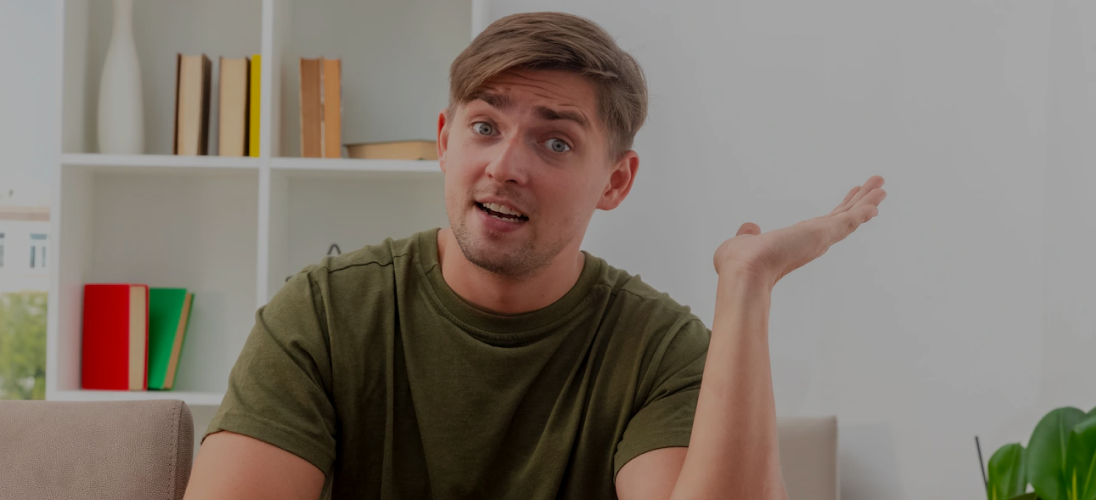
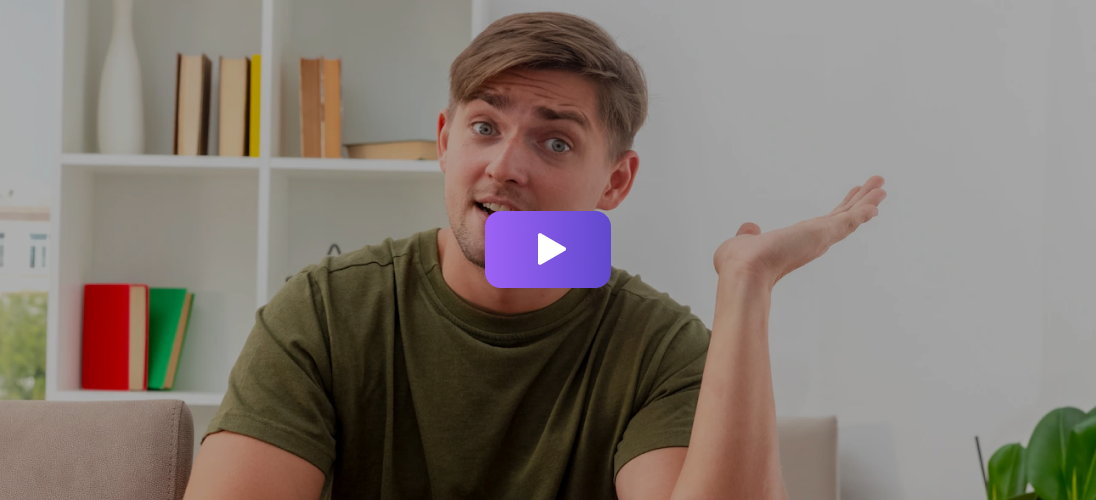
cunter animation add

Changed region(s): [[0.4343, 0.42, 0.5584, 0.6]]

diff --git a/src/pages/careers.html b/src/pages/careers.html
@@ -12,7 +12,7 @@
 
     <div class="row g-4 mt-8">
       <div class="md:col-6 lg:col-4">
-        <div class="rounded px-6 py-8 text-center shadow">
+        <div class="rounded px-6 py-8 text-center shadow h-full">
           <div
             class="mx-auto mb-7 flex text-5xl text-primary h-20 w-20 items-center justify-center rounded bg-white drop-shadow">
             <i class="fa-solid fa-coins "></i>
@@ -26,7 +26,7 @@
         </div>
       </div>
       <div class="md:col-6 lg:col-4">
-        <div class="rounded px-6 py-8 text-center shadow">
+        <div class="rounded px-6 py-8 text-center shadow h-full">
           <div
             class="mx-auto mb-7 text-5xl text-primary flex h-20 w-20 items-center justify-center rounded bg-white drop-shadow">
             <i class="fa-solid fa-person-running"></i>
@@ -40,7 +40,7 @@
         </div>
       </div>
       <div class="md:col-6 lg:col-4">
-        <div class="rounded px-6 py-8 text-center shadow">
+        <div class="rounded px-6 py-8 text-center shadow h-full">
           <div
             class="mx-auto mb-7 text-5xl text-primary flex h-20 w-20 items-center justify-center rounded bg-white drop-shadow">
             <i class="fa-solid fa-user-pen"></i>
@@ -54,7 +54,7 @@
         </div>
       </div>
       <div class="md:col-6 lg:col-4">
-        <div class="rounded px-6 py-8 text-center shadow">
+        <div class="rounded px-6 py-8 text-center shadow h-full">
           <div
             class="mx-auto mb-7 text-5xl text-primary flex h-20 w-20 items-center justify-center rounded bg-white drop-shadow">
             <i class="fa-solid fa-award"></i>
@@ -68,7 +68,7 @@
         </div>
       </div>
       <div class="md:col-6 lg:col-4">
-        <div class="rounded px-6 py-8 text-center shadow">
+        <div class="rounded px-6 py-8 text-center shadow h-full">
           <div
             class="mx-auto mb-7 text-5xl text-primary flex h-20 w-20 items-center justify-center rounded bg-white drop-shadow">
             <i class="fa-solid fa-briefcase-medical"></i>
@@ -82,7 +82,7 @@
         </div>
       </div>
       <div class="md:col-6 lg:col-4">
-        <div class="rounded px-6 py-8 text-center shadow">
+        <div class="rounded px-6 py-8 text-center shadow h-full">
           <div
             class="mx-auto mb-7 text-5xl text-primary flex h-20 w-20 items-center justify-center rounded bg-white drop-shadow">
             <i class="fa-solid fa-building"></i>
@@ -142,7 +142,7 @@
           <div
             class="relative mr-3 pr-3 lg:mr-8 sm:pr-8 after:hidden sm:after:block after:absolute after:right-0 after:top-0 after:h-full after:w-0.5 after:bg-primary">
             <select data-department
-              class="py-4 px-9 sm:pr-20 sm:bg-[80%_center] sm:py-[26px] rounded sm:pl-[56px] text-lg border-none lg:text-xl shadow focus:border-none focus:ring-0">
+              class="py-4 px-9 sm:pr-20 sm:bg-[80%_center] sm:py-[26px] rounded sm:pl-[3.6rem] text-lg border-none lg:text-xl shadow focus:border-none focus:ring-0">
               <option value="*">All Department</option>
               <option value="digital-marketing">Digital Marketing</option>
               <option value="data-engineer">Data Engineer</option>
@@ -150,17 +150,21 @@
               <option value="software-engineer">Software Engineer</option>
               <option value="fullstack-engineer">FullStack Engineer</option>
             </select>
+
+            
           </div>
 
-          <select data-office
-            class="py-4 px-9 sm:pr-20 sm:bg-[80%_center] sm:py-[26px] rounded sm:pl-[56px] text-lg border-none lg:text-xl shadow focus:border-none focus:ring-0">
-            <option value="*">All Office</option>
-            <option value="usa">USA</option>
-            <option value="uk">UK</option>
-            <option value="hungary">Hungary</option>
-            <option value="brazil">Brazil</option>
-            <option value="italy">Italy</option>
-          </select>
+          <div>
+            <select data-office
+              class="py-4 px-9 sm:pr-20 sm:bg-[75%_center] sm:py-[26px] rounded sm:pl-[3.6rem] text-lg border-none lg:text-xl shadow focus:border-none focus:ring-0">
+              <option value="*">All Office</option>
+              <option value="usa">USA</option>
+              <option value="uk">UK</option>
+              <option value="hungary">Hungary</option>
+              <option value="brazil">Brazil</option>
+              <option value="italy">Italy</option>
+            </select></div>
+
         </div>
       </div>
     </div>

diff --git a/src/pages/blog-single.html b/src/pages/blog-single.html
@@ -110,17 +110,17 @@
 <div class="section">
   <div class="container">
     <h2 class="h2 mb-[52px] text-center">Our Recent Blog</h2>
-    <div class="row">
+    <div class="row gy-4">
       <!-- blog posts -->
-      <div class="md:col-6 lg:col-4">
+      <div class="col-12 md:col-6 lg:col-4 h-full">
         <div class="relative">
           <img width="424" height="230" class="w-full rounded" src="images/blog/8.png" alt="blog-post" />
-          <a href="" class="absolute right-3 top-3 rounded bg-dark px-[22px] py-2 text-sm font-semibold text-white">Food
+          <a href="#" class="absolute right-3 top-3 rounded bg-dark px-[22px] py-2 text-sm font-semibold text-white">Food
             Blog</a>
         </div>
         <h3 class="mb-5 mt-11 text-h3-sm">
-          Software Developer should write a blogEvery Software Developer
-          should
+          <a href="#">Software Developer should write a blogEvery Software Developer
+            should</a>
         </h3>
         <p class="mb-6">
           Proven aptitude torate and build strong relationships withoProven
@@ -134,15 +134,15 @@
       </div>
 
       <!-- blog posts -->
-      <div class="md:col-6 lg:col-4">
+      <div class="col-12 md:col-6 lg:col-4 h-full">
         <div class="relative">
           <img width="424" height="230" class="w-full rounded" src="images/blog/9.png" alt="blog-post" />
-          <a href="" class="absolute right-3 top-3 rounded bg-dark px-[22px] py-2 text-sm font-semibold text-white">Food
+          <a href="#" class="absolute right-3 top-3 rounded bg-dark px-[22px] py-2 text-sm font-semibold text-white">Food
             Blog</a>
         </div>
         <h3 class="mb-2 mt-6 text-h3-sm">
-          Meet Agile executive Chief Revenue Officer, Merick den Turkoglu
-          morgan
+        <a href="#">Meet Agile executive Chief Revenue Officer, Merick den Turkoglu
+          morgan</a>
         </h3>
         <p class="mb-6">
           Proven aptitude torate and build strong relationships withoProven
@@ -156,14 +156,14 @@
       </div>
 
       <!-- blog posts -->
-      <div class="md:col-6 lg:col-4">
+      <div class="col-12 md:col-6 lg:col-4 h-full">
         <div class="relative">
           <img width="424" height="230" class="w-full rounded" src="images/blog/10.png" alt="blog-post" />
-          <a href="" class="absolute right-3 top-3 rounded bg-dark px-[22px] py-2 text-sm font-semibold text-white">Food
+          <a href="#" class="absolute right-3 top-3 rounded bg-dark px-[22px] py-2 text-sm font-semibold text-white">Food
             Blog</a>
         </div>
         <h3 class="mb-2 mt-6 text-h3-sm">
-          Content Structure: The Do's and Dont's of Content Creation more
+          <a href="#">Content Structure: The Do's and Dont's of Content Creation more</a>
         </h3>
         <p class="mb-6">
           Proven aptitude torate and build strong relationships withoProven

diff --git a/src/pages/about.html b/src/pages/about.html
@@ -45,22 +45,22 @@
           the importance of IT."</strong>
       </p>
       <div class="border border-primary/30 mt-12 rounded-xl p-5 lg:p-6">
-        <div class="row g-3 lg:g-4">
-          <div class="lg:col-4 text-center">
+        <div class="row g-3 lg:g-4 justify-center">
+          <div class="md:col-6 lg:col-4 text-center">
             <div class="shadow rounded-xl px-3 xl:px-6 py-9">
-              <h1 class="mb-2">11+</h1>
+              <h1 class="mb-2"><span data-counter data-target="11" data-speed="11">0</span>+</h1>
               <h5>Years of SaaS Expertise</h5>
             </div>
           </div>
-          <div class="lg:col-4 text-center">
+          <div class="md:col-6 lg:col-4 text-center">
             <div class="shadow rounded-xl px-3 xl:px-6 py-9">
-              <h1 class="mb-2">330+</h1>
+              <h1 class="mb-2"><span data-counter data-target="330" data-speed="20" >0</span>+</h1>
               <h5>Employees</h5>
             </div>
           </div>
-          <div class="lg:col-4 text-center">
+          <div class="md:col-6 lg:col-4 text-center">
             <div class="shadow rounded-xl px-3 xl:px-6 py-9">
-              <h1 class="mb-2">16</h1>
+              <h1 class="mb-2"><span data-counter data-target="16" data-speed="16">0</span></h1>
               <h5>Office Hubs</h5>
             </div>
           </div>
@@ -80,7 +80,7 @@
 
       <div class="row items-center mt-11">
         <div class="lg:col-6">
-          <img class="rounded-2xl" width="736" height="430" src="images/about/3.png" alt="about-img">
+          <img class="rounded-2xl w-full" width="736" height="430" src="images/about/3.png" alt="about-img">
         </div>
         <div class="lg:col-6">
           <h3 class="mb-3">Building the future of SaaS made Reoperations together.</h3>
@@ -95,10 +95,10 @@
       </div>
       <div class="row mt-[50px] flex-row-reverse items-center">
         <div class="lg:col-6">
-          <img class="rounded-2xl" width="736" height="430" src="images/about/4.png" alt="about-img">
+          <img class="rounded-2xl w-full" width="736" height="430" src="images/about/4.png" alt="about-img">
         </div>
         <div class="lg:col-6">
-          <h3 class="mb-3">Our mission is to accelerate the world’s transition to SaaS in a option better of experience
+          <h3 class="mb-3 mt-6 lg:mt-0">Our mission is to accelerate the world’s transition to SaaS in a option better of experience
             .</h3>
           <p class="mb-8">Lorem ipsum dolor sit amet consectetur maxime corporis nsectetur corporis consectetur maxime
             corporis cumque Lorem ipsum amet consectetur maxime corporis .</p>

diff --git a/src/pages/customers-story.html b/src/pages/customers-story.html
@@ -6,20 +6,28 @@
             <h2 class="mb-14">Hear see the video why our customers love us.</h2>
         </div>
         <div class="lg:col-10 mx-auto">
-            <img class="rounded-xl" width="1096" height="500" src="images/customer-story/1.png" alt="customer-img">
+            <div class="relative overflow-hidden rounded-lg mb-5">
+                <img data-thumnail class="cursor-pointer" width="1096" height="548" src="images/customer-story/1.png"
+                    alt="Webinars-img">
+                <div class="hidden absolute top-0 left-0 w-full h-full">
+                    <iframe class="w-full h-full" allowfullscreen
+                        src="https://www.youtube.com/embed/ResipmZmpDU?autoplay=1&mute=1">
+                    </iframe>
+                </div>
+            </div>
         </div>
     </div>
 </section>
 
-<section class="section">
+<section class="section pt-0">
     <div class="container">
-        <div class="lg:col-5 mx-auto text-center mt-16 lg:mb-20">
+        <div class="sm:col-10 lg:col-5 mx-auto text-center lg:mb-20">
             <h2>We’re all on the same events team</h2>
         </div>
 
-        <div class="row gy-4 justify-between">
+        <div class="row gy-4 justify-between mt-6 lg:mt-0">
             <div class="lg:col-6">
-                <img class="mb-3" src="images/customer-story/3.png" alt="compnay-logo" />
+                <img class="mb-3 w-full" src="images/customer-story/3.png" alt="compnay-logo" />
                 <h3 class="mb-4">agile solves SaaS spend Shadow IT, and operational challenges terms of
                     operational.
                 </h3>

diff --git a/src/scripts/main.js b/src/scripts/main.js
@@ -264,6 +264,7 @@
     });
   };
 
+  //
   const priceTags = document.querySelectorAll("[data-package]");
   priceTags?.forEach((priceTag) => {
     priceTag.addEventListener("click", function () {
@@ -281,4 +282,37 @@
       });
     });
   });
+
+  //  counter;
+  let observer = new IntersectionObserver(handleIntersection, {
+    root: null,
+    rootMargin: '0px',
+    threshold: 0.8
+  });
+
+  const counters = document.querySelectorAll("[data-counter]");
+  counters?.forEach((counter) => observer.observe(counter));
+
+  function startCounter(counter){
+    const speed = parseInt(counter.getAttribute("data-speed"));;
+    const target = parseInt(counter.getAttribute("data-target"));
+    const count = parseInt(counter.innerText);
+    const increment = Math.trunc(target / speed);
+    if (count < target) {
+      counter.innerHTML = (count + increment);
+      setTimeout(() => startCounter(counter), 80);
+    } else {
+      counter.innerText = target;
+    }
+  }
+
+  function handleIntersection(entries, observer) {
+    entries.forEach(function(entry) {
+      if (entry.intersectionRatio > 0) {
+        startCounter(entry.target);
+        observer.unobserve(entry.target);
+      }
+    });
+  }
+
 })();

diff --git a/src/pages/solution.html b/src/pages/solution.html
@@ -5,7 +5,7 @@
         <div class="lg:col-5 text-center mx-auto">
             <h2 class="mb-14">Take Control of SaaS Renewals & Vendor Management</h2>
         </div>
-        <div class="mx-auto lg:col-10">
+        <div class="mx-auto lg:col-10 px-2">
             <img class="mx-auto shadow rounded-xl" width="1102" height="722" src="/images/solution/8.png"
                 alt="solution-img" />
         </div>
@@ -69,10 +69,10 @@
     </div>
 </section>
 
-<section class="section">
+<section class="section pt-0">
     <div class="container">
         <div class="row items-center">
-            <div class="lg:col-5">
+            <div class="lg:col-5 mb-12">
                 <img class="shadow rounded-xl w-full" src="images/solution/11.png"  alt="solution-img"/>
             </div>
             <div class="lg:col-7">

diff --git a/src/pages/case-study.html b/src/pages/case-study.html
@@ -10,7 +10,7 @@
         </div>
         <div class="lg:col-10 mx-auto">
             <img width="1096" height="540" class="rounded-xl" src="images/case-study/2.png" alt="thumbnail-img" />
-            <div class="row gy-4 mt-14">
+            <div class="row gy-4 mt-6 lg:mt-14">
                 <div class="lg:col-6">
                     <div>
                         <h3>Customer Profile :</h3>
